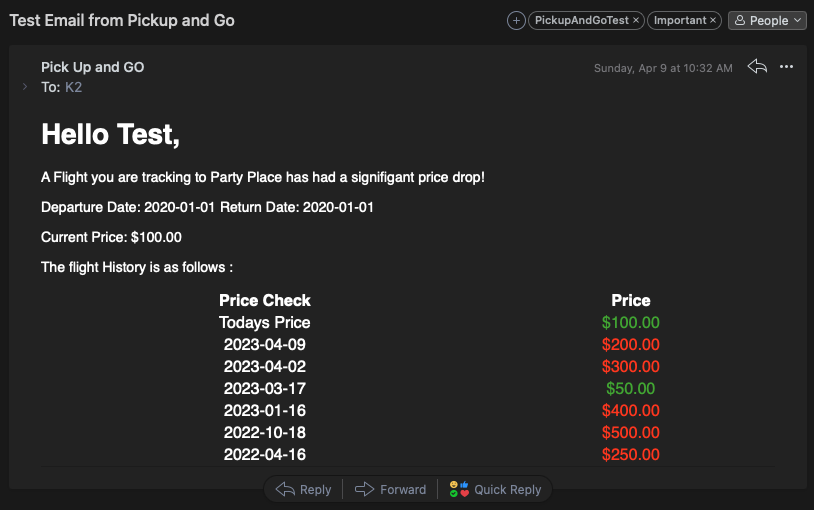
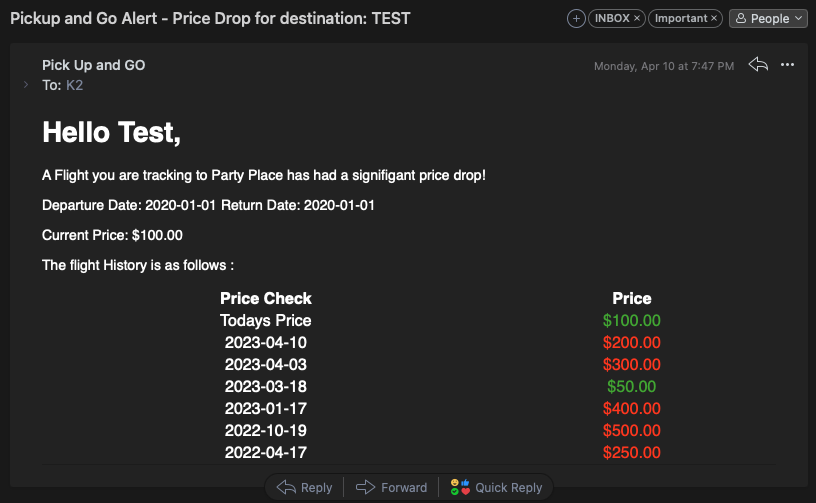
touchup on test email

diff --git a/pkg/email/email.go b/pkg/email/email.go
@@ -57,7 +57,7 @@ func SendTestEmail(email string, body string, dates []string) string{
 
 	// who
 	from := mail.NewEmail("Pick Up and GO", senderEmail)
-	subject := "Test Email from Pickup and Go"
+	subject := "Pickup and Go Alert - Price Drop for destination: TEST"
 	to := mail.NewEmail("TestUser", email)
 
 	testUser := data.User{
